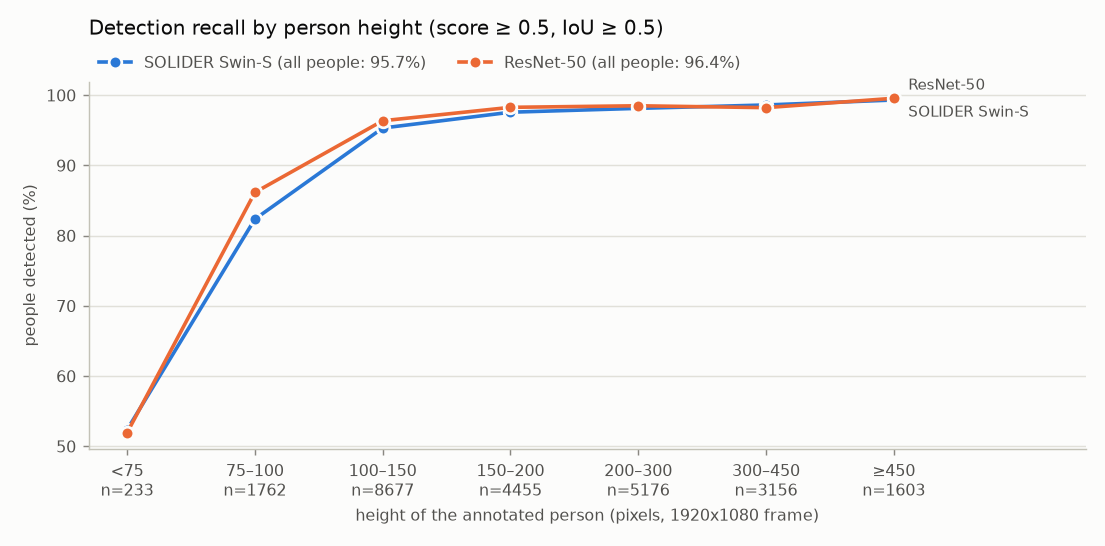
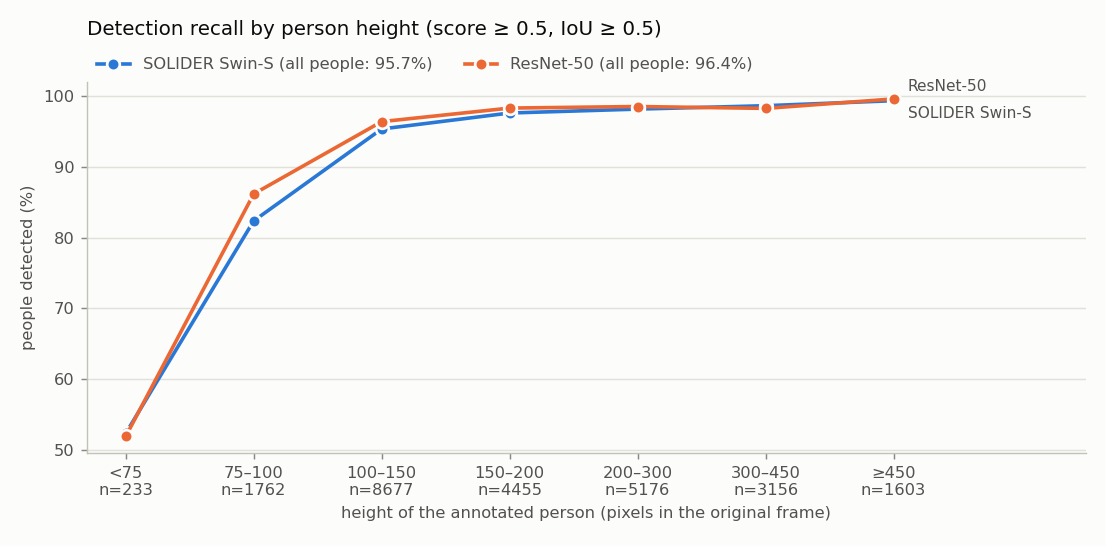
qualitative results updated

diff --git a/Scripts/qualitative.py b/Scripts/qualitative.py
@@ -472,7 +472,7 @@ def recall_chart(runs, path):
     ax.set_xticks(x, labels)
     ax.set_xlim(-0.3, len(bins) + 0.5)
     ax.yaxis.grid(True, color=GRID, lw=0.8)
-    ax.set_xlabel("height of the annotated person (pixels, 1920x1080 frame)", color=INK2, fontsize=9)
+    ax.set_xlabel("height of the annotated person (pixels in the original frame)", color=INK2, fontsize=9)
     ax.set_ylabel("people detected (%)", color=INK2, fontsize=9)
     ax.set_title(f"Detection recall by person height (score ≥ {runs[0]['summary']['det_thresh']},"
                  " IoU ≥ 0.5)", fontsize=11, color=INK, loc="left", pad=26)
